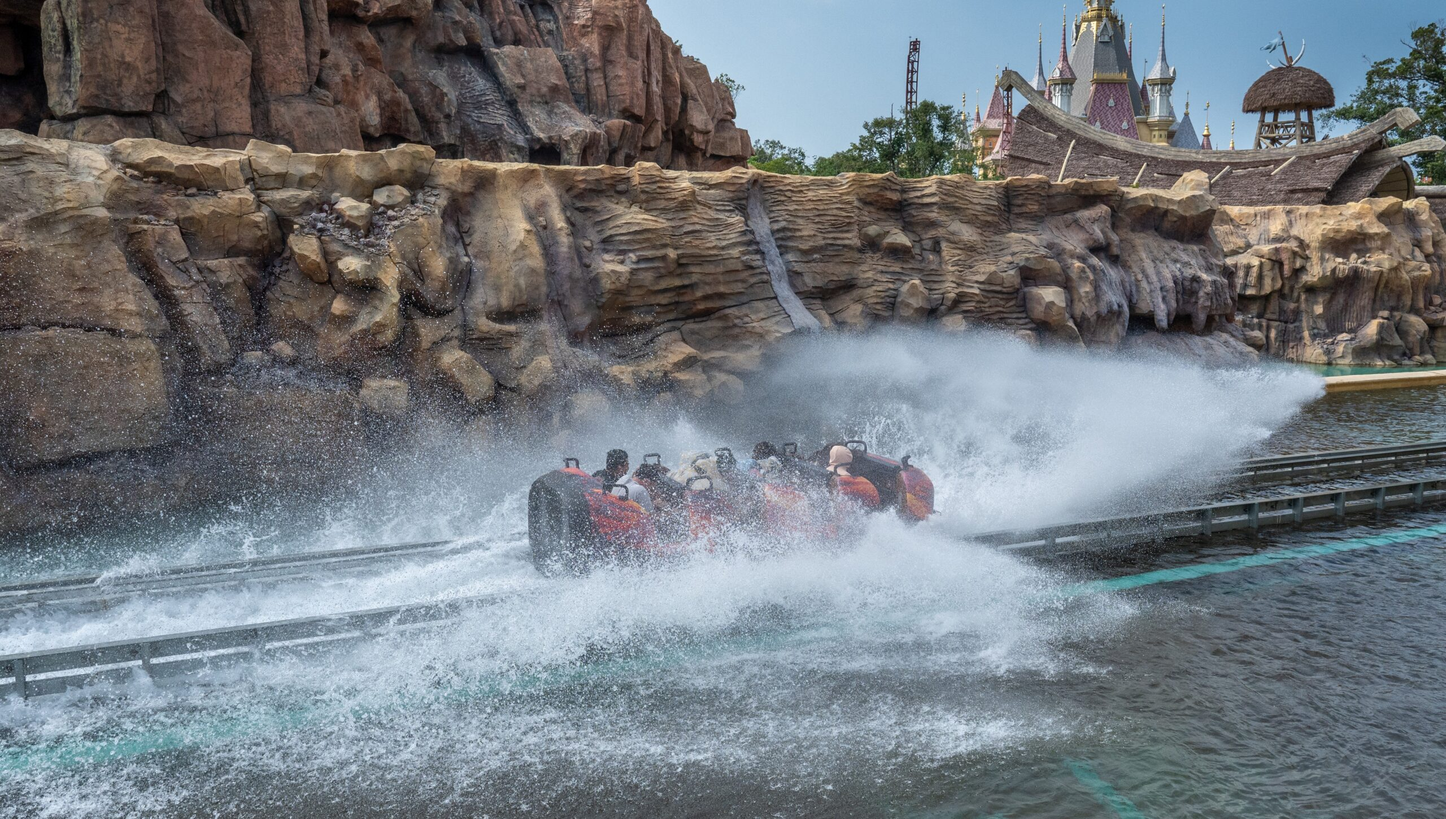
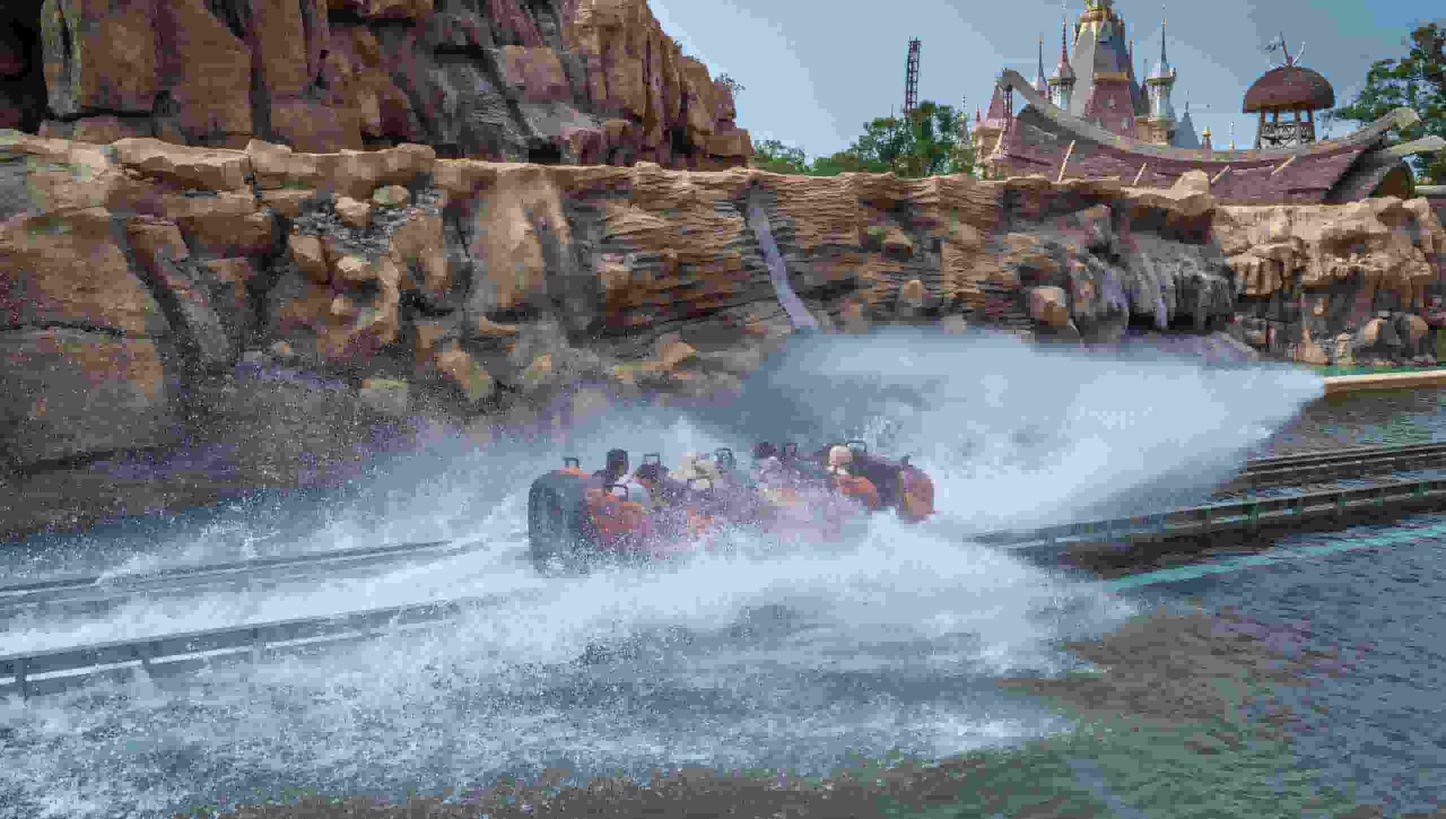
Update styles and content for trips page, enhancing layout and image handling

diff --git a/wwr/styles/rafting.css b/wwr/styles/rafting.css
@@ -89,7 +89,7 @@ header nav a {
     opacity: 0.7;
 }
 
-.hero article {
+.hero > article {
     position: absolute;
     bottom: 0;
     left: 0;
@@ -357,7 +357,7 @@ main {
 
 .grid-image {
     width: 100%;
-    height: 180px;
+    height: 220px;
     display: block;
     object-fit: cover;
 }
@@ -371,15 +371,23 @@ main {
 
 .page-title p {
     max-width: 40rem;
-    margin: 0.75rem auto 0;
+    margin: 0.75rem 0;
     line-height: 1.6;
+    text-align: center;
 }
 
 .trip-grid {
     display: grid;
-    gap: 1rem;
-    grid-template-columns: repeat(auto-fit, minmax(260px, 1fr));
-    margin: 1.5rem 0;
+    grid-template-columns: repeat(auto-fit, minmax(280px, 1fr));
+    gap: 1.5rem;
+    width: 100%;
+    box-sizing: border-box;
+}
+
+.trip-card img {
+    width: 100%;
+    height: auto;
+    object-fit: cover;
 }
 
 .trip-card {
@@ -390,8 +398,8 @@ main {
 }
 
 .trip-card .grid-image {
-    height: clamp(180px, 16vw, 240px);
-    object-position: center;
+    width: 100%;
+    height: 220px;
 }
 
 .trip-info {
@@ -458,10 +466,4 @@ main {
 
 .contact-cta .cta-link:hover {
     background: #0b3f30;
-}
-
-@media (max-width: 900px) {
-    .trip-grid {
-        grid-template-columns: 1fr;
-    }
 }

diff --git a/wwr/trips.html b/wwr/trips.html
@@ -30,7 +30,8 @@
                 <img src="images/river-breeze.jpg" alt="Gentle river rafting" class="grid-image">
                 <div class="trip-info">
                     <h2>River Breeze</h2>
-                    <p>Perfect for beginners, this easy class II run offers calm rapids, scenic
+                    <p>Perfect for beginners, this easy class II run offers calm rapids,
+                        scenic
                         river views, and friendly guides.</p>
                     <ul>
                         <li>Duration: 2 hours</li>
@@ -58,7 +59,8 @@
                 <img src="images/rapid-rush.jpg" alt="Experienced rafting team" class="grid-image">
                 <div class="trip-info">
                     <h2>Rapid Rush</h2>
-                    <p>Advanced class IV adventure with fast currents, exciting drops, and a strong
+                    <p>Advanced class IV adventure with fast currents, exciting drops, and a
+                        strong
                         team of expert guides.</p>
                     <ul>
                         <li>Duration: 5 hours</li>
